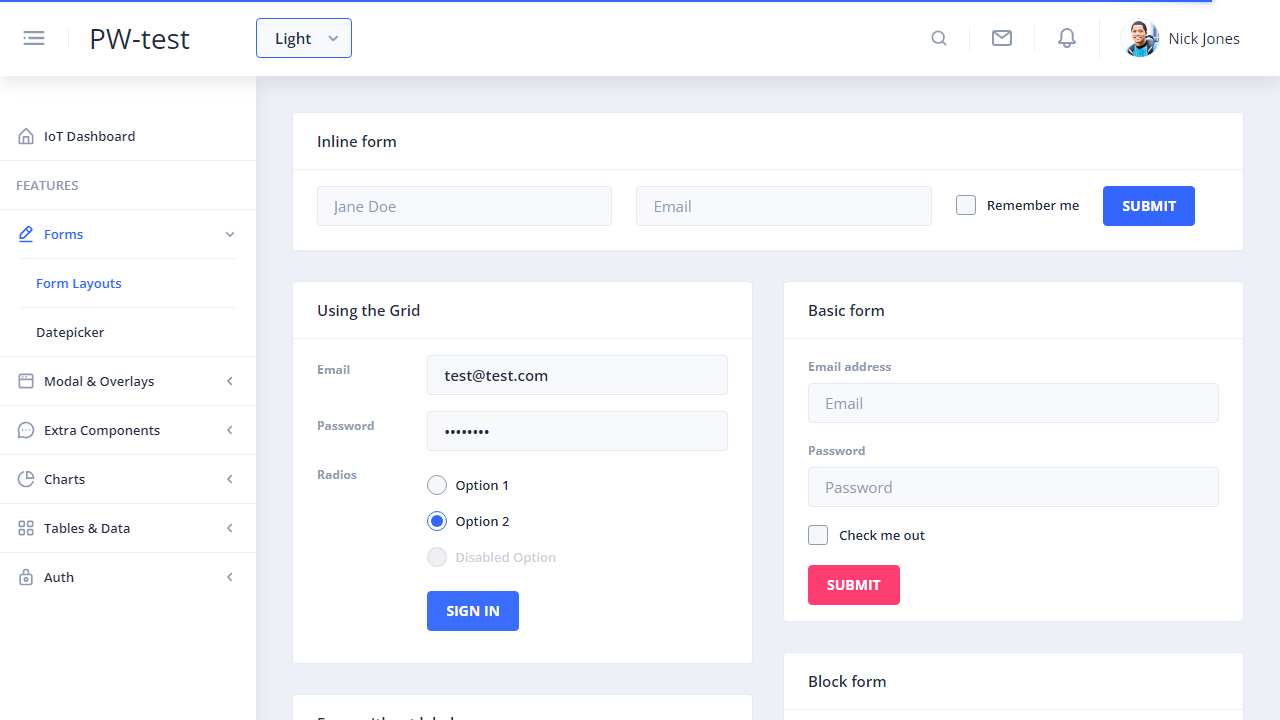
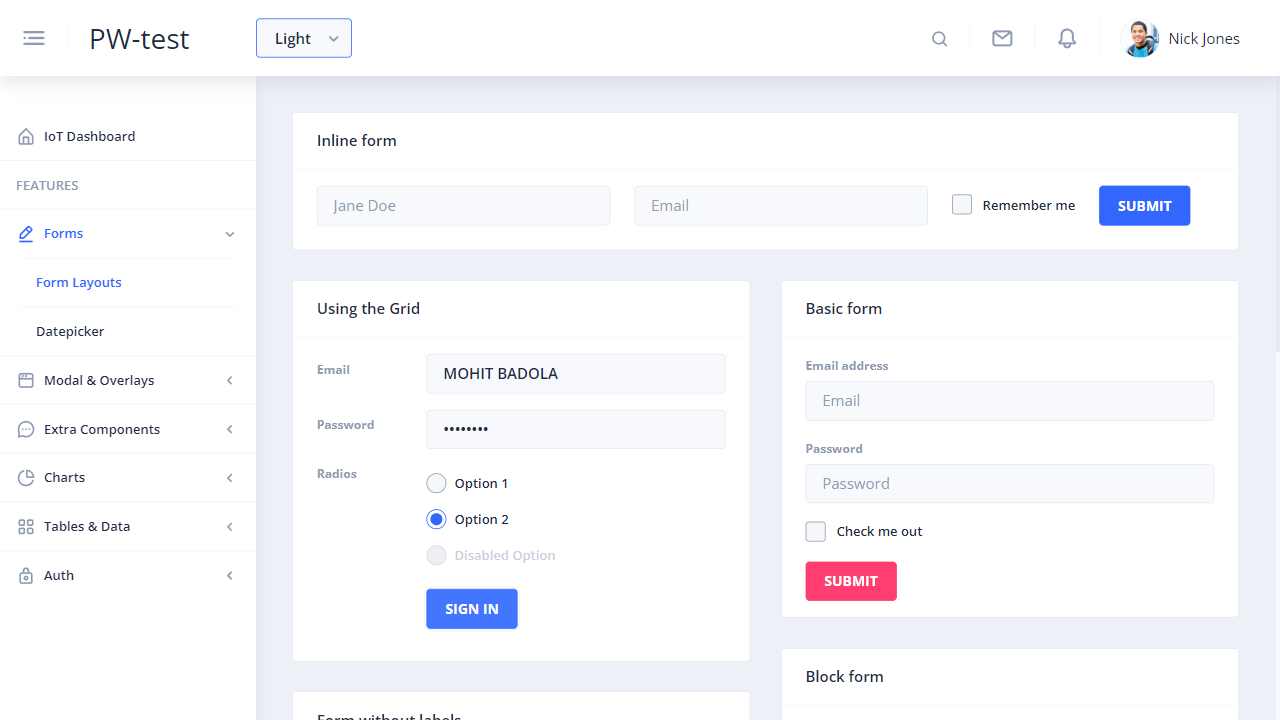
Environment Variables

diff --git a/playwright.config.ts b/playwright.config.ts
@@ -1,4 +1,5 @@
 import { defineConfig, devices } from '@playwright/test';
+import type { TestOptions } from './test-options';
 
 /**
  * Read environment variables from file.
@@ -7,11 +8,12 @@ import { defineConfig, devices } from '@playwright/test';
 // import dotenv from 'dotenv';
 // import path from 'path';
 // dotenv.config({ path: path.resolve(__dirname, '.env') });
+require('dotenv').config()
 
 /**
  * See https://playwright.dev/docs/test-configuration.
  */
-export default defineConfig({
+export default defineConfig<TestOptions>({
   // timeout:10000,
   // globalTimeout:60000,
   // expect:{
@@ -31,7 +33,8 @@ export default defineConfig({
   /* Shared settings for all the projects below. See https://playwright.dev/docs/api/class-testoptions. */
   use: {
     /* Base URL to use in actions like `await page.goto('/')`. */
-    // baseURL: 'http://127.0.0.1:3000',
+    baseURL: 'http://localhost:4200/',
+    globalsQaURL: 'https://www.globalsqa.com/demo-site/draganddrop/',
 
     /* Collect trace when retrying the failed test. See https://playwright.dev/docs/trace-viewer */
     trace: 'on-first-retry',
@@ -42,6 +45,18 @@ export default defineConfig({
 
   /* Configure projects for major browsers */
   projects: [
+    {
+      name: 'dev',
+      use: { ...devices['Desktop Chrome'],
+        baseURL: 'http://localhost:4200/'
+       },
+    },
+    {
+      name: 'staging',
+      use: { ...devices['Desktop Chrome'],
+        baseURL: 'http://localhost:4200/'
+       },
+    },
     {
       name: 'chromium',
       use: { ...devices['Desktop Chrome'] },

diff --git a/tests/usePageObjects.spec.ts b/tests/usePageObjects.spec.ts
@@ -3,7 +3,7 @@ import { PageManager } from '../page-objects/pageManager'
 import {faker} from '@faker-js/faker'
 
 test.beforeEach(async({page}) => {
-  await page.goto("http://localhost:4200/")
+  await page.goto("/")
 });
 
 test('navigate to form page', async({page})=>{
@@ -21,7 +21,7 @@ test('parametrized methods', async({page})=>{
  const randomEmail = `${randomFullName.replace(' ','')}${faker.number.int(1000)}@test.com`
 
   await pm.navigateTo().formLayoutsPage()
-  await pm.onFormLayoutsPage().submitUsingTheGridFormWithCredentialsAndSelectOption('test@test.com', 'Welcome1', 'Option 2')
+  await pm.onFormLayoutsPage().submitUsingTheGridFormWithCredentialsAndSelectOption(process.env.USERNAME, process.env.PASSWORD, 'Option 2')
 
   await page.screenshot({path: 'screenshots/formsLayoutsPage.png'})
   const buffer = await page.screenshot()

diff --git a/tests/dragAndDropWithiFrame.spec.ts b/tests/dragAndDropWithiFrame.spec.ts
@@ -1,7 +1,8 @@
-import {test, expect} from '@playwright/test'
+import {expect} from '@playwright/test'
+import {test} from '../test-options'
 
-test('drag and drop with iframe', async({page})=>{
-    await page.goto("https://www.globalsqa.com/demo-site/draganddrop/")
+test('drag and drop with iframe', async({page, globalsQaURL})=>{
+    await page.goto(globalsQaURL)
 
     const frame = page.frameLocator('[rel-title="Photo Manager"] iframe')
 

diff --git a/tests/autoWaiting.spec.ts b/tests/autoWaiting.spec.ts
@@ -1,7 +1,7 @@
 import {test, expect} from '@playwright/test';
 
 test.beforeEach(async ({ page }, testInfo) => {
-    await page.goto('http://uitestingplayground.com/ajax')
+    await page.goto(process.env.URL)
     await page.getByText('Button Triggering AJAX Request').click()
     // testInfo.setTimeout(testInfo.timeout + 2000)
 });

diff --git a/tests/firstTest.spec.ts b/tests/firstTest.spec.ts
@@ -1,7 +1,7 @@
 import { test, expect } from "@playwright/test";
 
 test.beforeEach(async ({ page }) => {
-    await page.goto("http://localhost:4200/");
+    await page.goto("/");
     await page.getByTitle("Forms").click();
     await page.getByText("Form layouts").click();
 });

diff --git a/tests/uiComponents.spec.ts b/tests/uiComponents.spec.ts
@@ -3,7 +3,7 @@ import { test, expect } from "@playwright/test";
 // test.describe.configure({mode: 'parallel'})
 
 test.beforeEach(async ({ page }) => {
-  await page.goto("http://localhost:4200/")
+  await page.goto('/')
 });
 
 test.describe.only("Form Layouts page", () => {

diff --git a/test-options.ts b/test-options.ts
@@ -1,0 +1,9 @@
+import { test as base } from '@playwright/test'
+
+export type TestOptions = {
+    globalsQaURL: string
+}
+
+export const test = base.extend<TestOptions>({
+    globalsQaURL: ['', {option: true}]
+})
